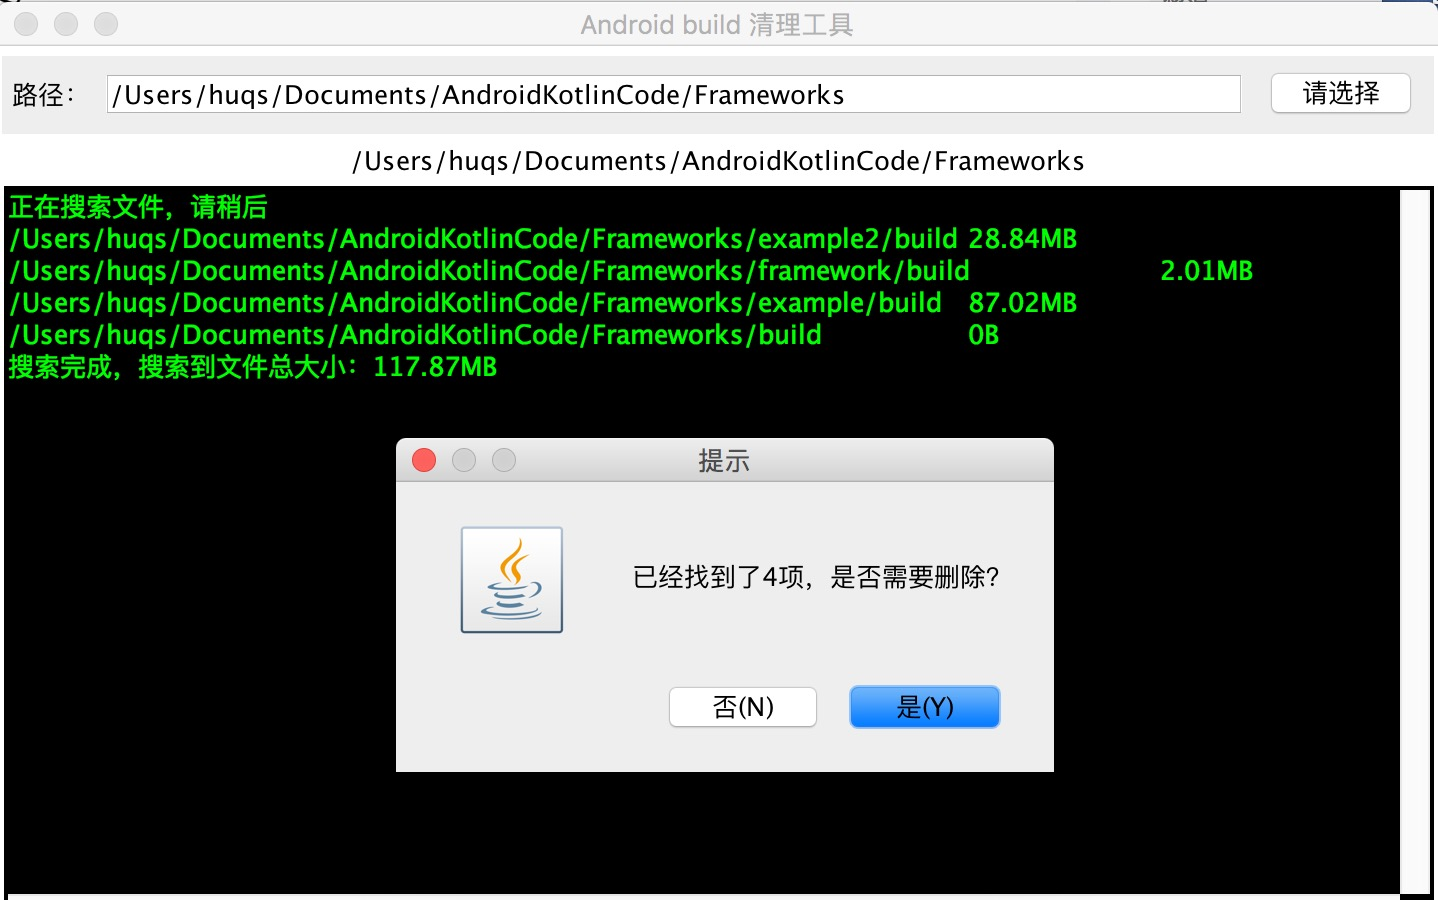
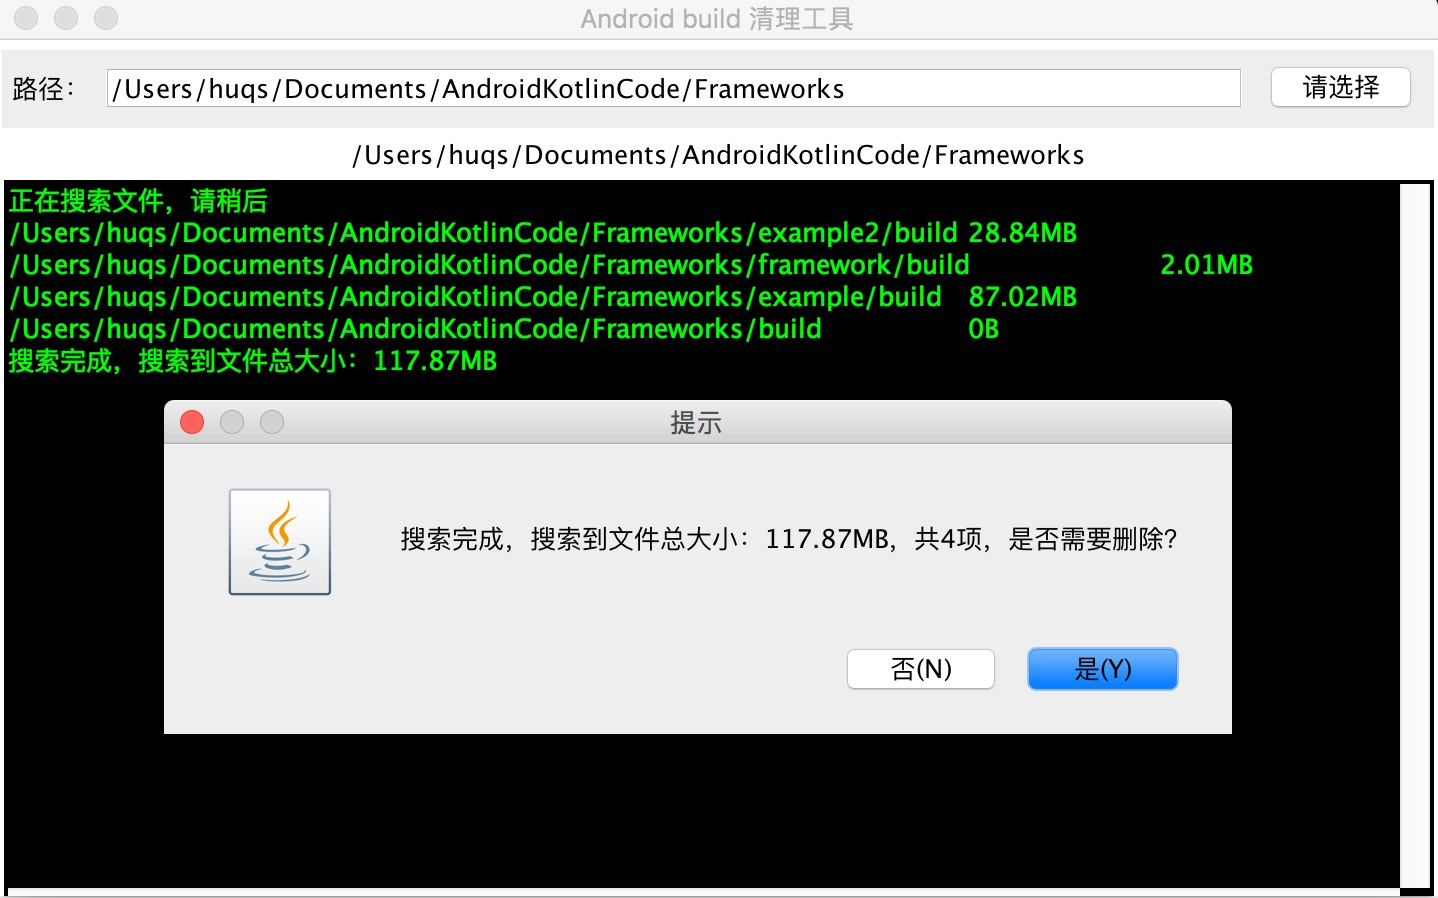
Initial commit

diff --git a/src/com/huqs/MainFrame.java b/src/com/huqs/MainFrame.java
@@ -96,11 +96,14 @@ class MainFrame extends JFrame implements ActionListener {
                 findDirectories(mFile);
                 boolean empty = mTextArea.getText().isEmpty();
                 if (empty) {
-                    mTextArea.setText("未找到build临时文件");
+                    mTextArea.setText("搜索到build临时文件");
                 } else {
                     mTextArea.append("搜索完成，搜索到文件总大小：" + formatSize(mFileTotalLength)+"\n");
                     if (mCacheFile.size()>0){
-                        int code = JOptionPane.showConfirmDialog(MainFrame.this, "已经找到了"+mCacheFile.size()+"项，是否需要删除？", "提示",JOptionPane.YES_NO_OPTION);//返回的是按钮的index  i=0或者1
+                        int code = JOptionPane.showConfirmDialog(
+                                MainFrame.this,
+                                "搜索完成，搜索到文件总大小：" + formatSize(mFileTotalLength)+"，共"+mCacheFile.size()+"项，是否需要删除？",
+                                "提示",JOptionPane.YES_NO_OPTION);
                         if (code==0){
                            mCacheFile.forEach((s, file) -> {
                                deleteDirectory(file.getAbsolutePath());

diff --git a/README.md b/README.md
@@ -1,1 +1,13 @@
 # AndroidBuildClean
+AndroidBuildClean 是一个用于清理Android项目中构建build的缓存文件，可以一键清理。
+<br>在平时的Android项目开发中工作时间就了就会在Android project 中的build或者app/build 产生大量的临时文件
+这些临时文件是没有用的，因为android studio每次编译都会产生新的临时文件，这样时间久了我们的硬盘空间就会不足，特别是
+使用固态硬盘的同学。文件太多手动删除太过于麻烦，所以写了这个工具可以自动清理。
+####效果图如下：
+![image](https://raw.githubusercontent.com/hu670014125/AndroidBuildClean/master/preview/image.png)
+<br>可以看到随便一个Android project项目的临时文件都上百兆
+![image](https://raw.githubusercontent.com/hu670014125/AndroidBuildClean/master/preview/image2.png)
+<br>可以选择一键删除文件
+![image](https://raw.githubusercontent.com/hu670014125/AndroidBuildClean/master/preview/image3.png)
+<br>再次查看之前的路径已没有缓存文件了
+![image](https://raw.githubusercontent.com/hu670014125/AndroidBuildClean/master/preview/image4.png)
